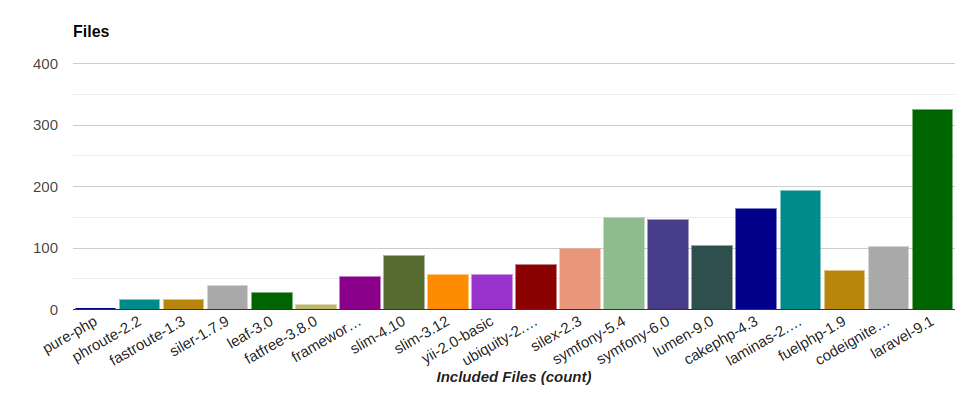
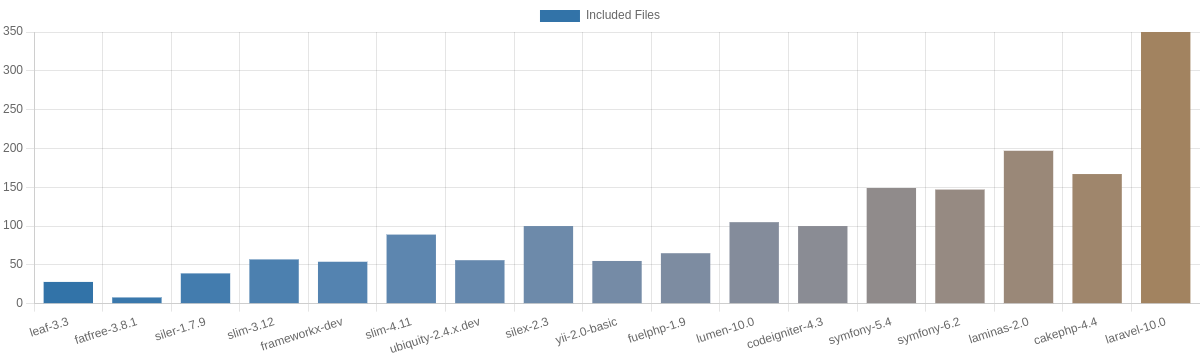
Update README.md & screenshots

diff --git a/README.md b/README.md
@@ -29,15 +29,16 @@ Benchmarking on components like template engines or ORM/Database libraries is ou
 
 #### Environment
 
-* Ubuntu 22.04 LTS 64bit
-  * PHP 8.1.6
-  * OPCache enabled
+* Ubuntu 22.04 LTS x86_64
+  * PHP 8.2.5
+  * OPCache Off
   * Apache 2.4.52
-  * CPU Core i7 2600K@4Ghz
+  * WRK 4.2.0
+  * CPU Core i7-3770K@4.4Ghz
   * Memory 16G 
 
 
-#### Results (2022/5/22)
+#### Results (2023/5/15)
 
 These are my benchmarks, not yours. **I encourage you to run on your (production equivalent) environments.**
 
@@ -46,28 +47,29 @@ These are my benchmarks, not yours. **I encourage you to run on your (production
 ![Benchmark Results Graph Execution Time](screenshots/php-frameworks-bench-exectime.png)
 ![Benchmark Results Graph Included Files](screenshots/php-frameworks-bench-includedfiles.png)
 
-|framework          |requests per second|relative|peak memory|relative|
-|-------------------|------------------:|-------:|----------:|-------:|
-|pure-php           |          42,114.24|    52.1|       0.34|     1.0|
-|phroute-2.2        |          33,424.47|    42.4|       0.34|     1.0|
-|fastroute-1.3      |          33,190.14|    42.1|       0.34|     1.0|
-|siler-1.7.9        |          22,152.74|    28.8|       0.36|     1.1|
-|leaf-3.0           |          20,685.10|    26.3|       0.36|     1.1|
-|fatfree-3.8.0      |          19,282.52|    24.5|       0.39|     1.1|
-|frameworkx-dev     |          18,033.22|    22.9|       0.37|     1.1|
-|slim-4.10          |          14,958.27|    19.0|       0.38|     1.1|
-|slim-3.12          |          14,714.84|    18.7|       0.39|     1.1|
-|yii-2.0-basic      |          11,831.91|    15.0|       0.70|     2.1|
-|ubiquity-2.4.x.dev |          11,669.47|    14.8|       0.38|     1.1|
-|silex-2.3          |          10,415.74|    13.2|       0.39|     1.1|
-|symfony-5.4        |           9,761.44|    12.4|       0.46|     1.4|
-|symfony-6.0        |           9,737.48|    12.4|       0.45|     1.3|
-|lumen-9.0          |           6,205.79|     7.7|       0.39|     1.1|
-|cakephp-4.3        |           5,562.91|     7.0|       0.43|     1.3|
-|laminas-2.0.x.dev  |           5,015.71|     6.4|       0.49|     1.4|
-|fuelphp-1.9        |           4,894.22|     6.2|       0.45|     1.3|
-|codeigniter-4.1    |           1,938.43|     2.5|       1.46|     4.3|
-|laravel-9.1        |             788.76|     1.0|       0.55|     1.6|
+|framework          |requests per second (rps)|relative (rps)|peak memory|relative (mem)|
+|-------------------|------------------------:|-------------:|----------:|-------------:|
+|pure-php           |                27,379.94|      27,379.9|       0.42|           0.4|
+|fastroute-1.3      |                 4,591.01|       4,591.0|       0.56|           0.6|
+|phroute-2.2        |                 4,303.07|       4,303.1|       0.58|           0.6|
+|leaf-3.3           |                 1,576.68|       1,576.7|       1.10|           1.1|
+|fatfree-3.8.1      |                 1,512.30|       1,512.3|       1.67|           1.7|
+|siler-1.7.9        |                 1,416.80|       1,416.8|       1.17|           1.2|
+|slim-3.12          |                 1,061.05|       1,061.1|       1.40|           1.4|
+|frameworkx-dev     |                   994.55|         994.6|       1.45|           1.5|
+|slim-4.11          |                   805.51|         805.5|       1.57|           1.6|
+|ubiquity-2.4.x.dev |                   726.70|         726.7|       1.64|           1.6|
+|silex-2.3          |                   558.07|         558.1|       2.16|           2.2|
+|yii-2.0-basic      |                   508.32|         508.3|       2.57|           2.6|
+|fuelphp-1.9        |                   450.65|         450.7|       2.51|           2.5|
+|lumen-10.0         |                   352.94|         352.9|       3.49|           3.5|
+|codeigniter-4.3    |                   324.27|         324.3|       3.50|           3.5|
+|symfony-5.4        |                   319.55|         319.6|       3.82|           3.8|
+|symfony-6.2        |                   314.21|         314.2|       3.89|           3.9|
+|laminas-2.0        |                   309.30|         309.3|       3.50|           3.5|
+|cakephp-4.4        |                   262.25|         262.3|       4.49|           4.5|
+|laravel-10.0       |                    96.97|          97.0|      11.99|          12.0|
+
 
 
 ## Benchmarking Policy
@@ -94,13 +96,14 @@ If you want to have benchmarks on `PHP extension frameworks` like Phalcon, you n
 1- Download & Setup:
 
 ```bash
-# you can put --branch vx.x
+# ...--branch vx.x
 $ git clone https://github.com/myaaghubi/PHP-Frameworks-Bench.git
 
 $ cd PHP-Frameworks-Bench
 
 # run the setup & follow the progress
 # check out benchmark.config
+# yes | bash setup.sh
 $ bash setup.sh
 ```
 
@@ -120,8 +123,14 @@ $ bash benchmark.sh
 ```
 
 4- Check the resuts:
+- web:
 
-<http://localhost/PHP-Frameworks-Bench/>
+  <http://localhost/PHP-Frameworks-Bench/>
+
+- command:
+  ```
+  bash show-table.sh
+  ```
 
 
 ## Commands
@@ -132,7 +141,7 @@ $ bash update.sh
 
 # to clean them all
 # trouble? run it then
-# you can use setup.sh again
+# you can use `bash setup.sh` again
 $ bash clean.sh
 
 # clear the cache of frameworks
@@ -147,7 +156,7 @@ To specify the frameworks, put them with `-t ...` after each command:
 ```bash
 # supported for `setup.sh`, `benchmark.sh`, `update.sh`, `clean.sh`, and `clear-cache.sh`
 # bash benchmarks.sh --help -h
-$ bash benchmark.sh -t laravel-9.1/ slim-4.10/ fatfree-3.8.0/ ...
+$ bash benchmark.sh -t laravel-10.0/ slim-4.11/ ...
 ...
 ```
 
